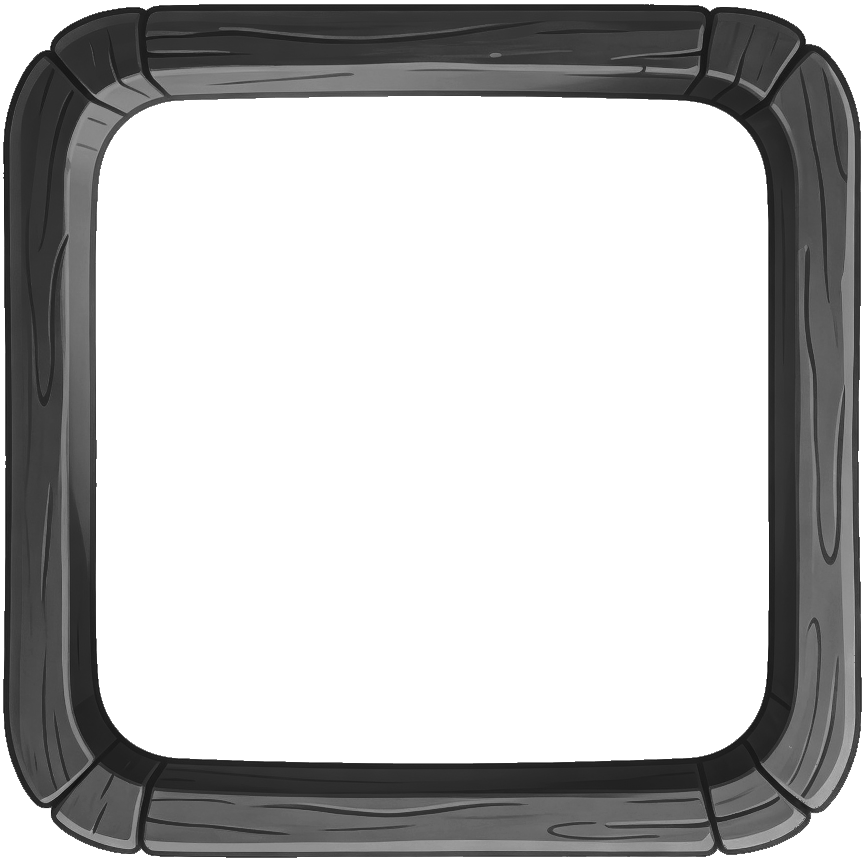
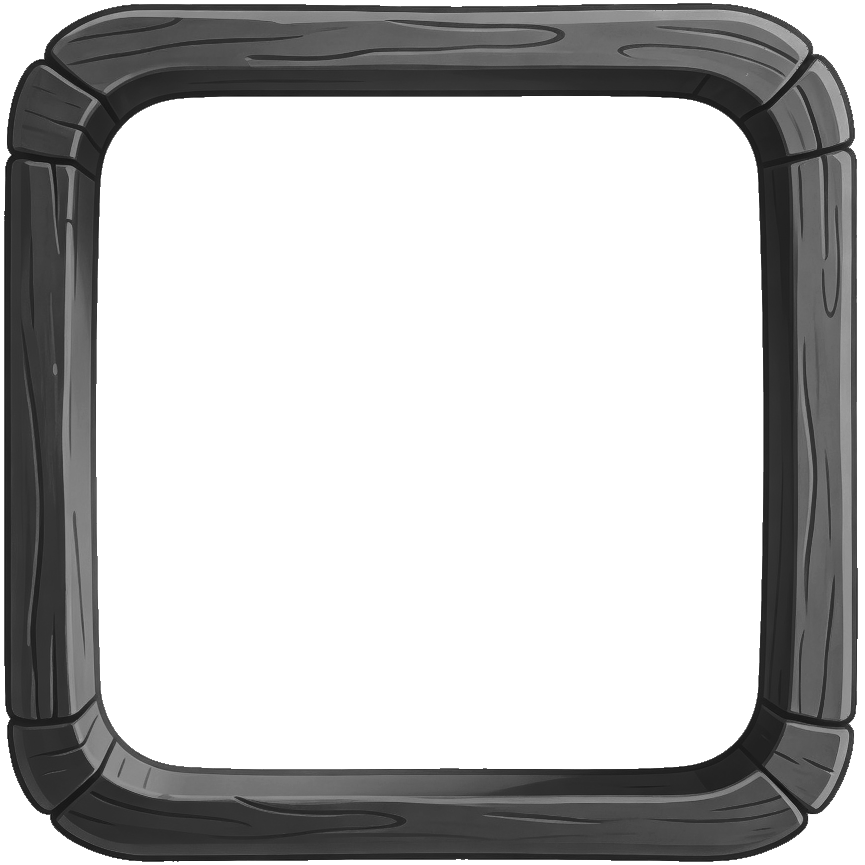
添加不同格子类型

Changed region(s): [[0.0, 0.0, 0.9988, 0.9988], [0.8428, 0.8116, 0.874, 0.8428], [0.8116, 0.8428, 0.8428, 0.874]]

diff --git a/Assets/Scripts/Controllers/PuzzleController.cs b/Assets/Scripts/Controllers/PuzzleController.cs
@@ -40,7 +40,7 @@ namespace Controllers
         private void OnClickPiece(int id)
         {
             var coords = _puzzleModel[id];
-            if (_puzzleModel[coords].IsEmpty || !_puzzleModel[coords].IsCanMove) return;
+            if (_puzzleModel[coords].IsEmpty || _puzzleModel[coords].Type == PieceTypeEnum.Fixed) return;
             for (int i = 0; i < _directions.Length; i++)
             {
                 var checkCoords = coords + _directions[i];
@@ -110,7 +110,7 @@ namespace Controllers
                         Id = id,
                         Sprite = sprite,
                         IsEmpty = id == 0,
-                        IsCanMove = true
+                        Type = PieceTypeEnum.Free
                     };
                 }
             }
@@ -136,8 +136,8 @@ namespace Controllers
                 int nx = emptyPos.x + dir.x;
                 int ny = emptyPos.y + dir.y;
 
-                // 判断是否在范围内
-                if (nx < 0 || nx >= cols || ny < 0 || ny >= rows || !pieces[nx, ny].IsCanMove)
+                // 判断是否在范围内且是自由块 TODO: 可以根据类型判断是否可移动
+                if (nx < 0 || nx >= cols || ny < 0 || ny >= rows || pieces[nx, ny].Type != PieceTypeEnum.Free)
                     continue;
                 
                 // 交换空白块和相邻块
@@ -180,8 +180,8 @@ namespace Controllers
                 for (int y = 0; y < rows; y++)
                 {
                     var piece = pieces[x, y];
-                    // 忽略空白块，只选可移动的正常块
-                    if (!piece.IsEmpty && piece.IsCanMove)
+                    // 忽略空白块，只选可移动的正常块 TODO: 可以根据类型判断是否可移动
+                    if (!piece.IsEmpty && piece.Type == PieceTypeEnum.Free)
                     {
                         availableIndices.Add((x, y));
                     }
@@ -203,7 +203,7 @@ namespace Controllers
             for (int i = 0; i < count; i++)
             {
                 var (x, y) = availableIndices[i];
-                pieces[x, y].IsCanMove = false;
+                pieces[x, y].Type = PieceTypeEnum.Fixed;
             }
         }
     }

diff --git a/Assets/Scripts/Views/PuzzlePieceView.cs b/Assets/Scripts/Views/PuzzlePieceView.cs
@@ -2,6 +2,7 @@
 using System;
 using DefaultNamespace;
 using DG.Tweening;
+using Models;
 using TMPro;
 using UnityEngine;
 using UnityEngine.Events;
@@ -19,34 +20,33 @@ namespace Views
         public Image broad = null!;
         public RectMask2D mask = null!;
         public PuzzlePieceStyle style = null!;
-        private bool _isCanMove = true;
+        private PieceTypeEnum _type = PieceTypeEnum.Free;
         public int PuzzleId { get; private set; }
 
-        public bool IsCanMove
+        public PieceTypeEnum Type
         {
-            get => _isCanMove;
+            get => _type;
             set
             {
-                if (_isCanMove == value) return;
-                _isCanMove = value;
-                if (_isCanMove)
+                if (_type == value) return;
+                _type = value;
+                broad.sprite = _type switch
                 {
-                    broad.sprite = style.moveSprite!;
-                }
-                else
-                {
-                    broad.sprite = style.fixedSprite!;
-                }
+                    PieceTypeEnum.Free => style.moveSprite,
+                    PieceTypeEnum.Fixed => style.fixedSprite,
+                    PieceTypeEnum.UpDown => style.moveUpDownSprite,
+                    PieceTypeEnum.LeftRight => style.moveLeftRightSprite,
+                };
             }
         }
 
-        public void Init(int puzzleId, Sprite? sprite, bool isCanMove, Vector2 renderSize)
+        public void Init(int puzzleId, Sprite? sprite, PieceTypeEnum type, Vector2 renderSize)
         {
             PuzzleId = puzzleId;
             idText.text = PuzzleId.ToString();
             if (sprite is not null) image.sprite = sprite;
             rectTransform.sizeDelta = renderSize + new Vector2Int(2, 2); //加2,避免误差
-            IsCanMove = isCanMove;
+            Type = type;
         }
         
         public void AddClickEvent(Action<int> onClick)

diff --git a/Assets/Scripts/Views/PuzzleView.cs b/Assets/Scripts/Views/PuzzleView.cs
@@ -38,7 +38,7 @@ namespace Views
         private PuzzlePieceView CreatePiece(in PieceModel piece, Vector2Int coords)
         {
             var pieceView = PuzzlePieceViews[coords.x, coords.y] = Instantiate(puzzlePieceViewPrefab, transform).GetComponent<PuzzlePieceView>();
-            pieceView.Init(piece.Id, piece.Sprite, piece.IsCanMove, _pieceSize);
+            pieceView.Init(piece.Id, piece.Sprite, piece.Type, _pieceSize);
             pieceView.rectTransform.localPosition = GetPosition(coords.x, coords.y);
             pieceView.gameObject.SetActive(!piece.IsEmpty);
             return pieceView;

diff --git a/Assets/Scripts/Models/PuzzleModel.cs b/Assets/Scripts/Models/PuzzleModel.cs
@@ -65,7 +65,7 @@ namespace Models
             {
                 for (int j = 0; j < Size.y; j++)
                 {
-                    _pieceModels[i, j] = new PieceModel() {Id = i + j * Size.x, IsEmpty = true, IsCanMove = true};
+                    _pieceModels[i, j] = new PieceModel() {Id = i + j * Size.x, IsEmpty = true, Type = PieceTypeEnum.Fixed};
                 }
             }
         }

diff --git a/Assets/Scripts/PuzzlePieceStyle.cs b/Assets/Scripts/PuzzlePieceStyle.cs
@@ -6,6 +6,8 @@ namespace DefaultNamespace
     public class PuzzlePieceStyle : ScriptableObject
     {
         public Sprite? moveSprite;
+        public Sprite? moveUpDownSprite;
+        public Sprite? moveLeftRightSprite;
         public Sprite? fixedSprite;
     }
 }

diff --git a/Assets/Scripts/Models/PieceModel.cs b/Assets/Scripts/Models/PieceModel.cs
@@ -7,6 +7,6 @@ namespace Models
         public int Id { get; set; }
         public bool IsEmpty { get; set; }
         public Sprite? Sprite { get; set; }
-        public bool IsCanMove { get; set; }
+        public PieceTypeEnum Type { get; set; }
     }
 }

diff --git a/Assets/Scripts/Models/PieceTypeEnum.cs b/Assets/Scripts/Models/PieceTypeEnum.cs
@@ -1,0 +1,13 @@
+using System;
+
+namespace Models
+{
+    [Flags]
+    public enum PieceTypeEnum
+    {
+        Free,
+        Fixed,
+        UpDown,
+        LeftRight,
+    }
+}
